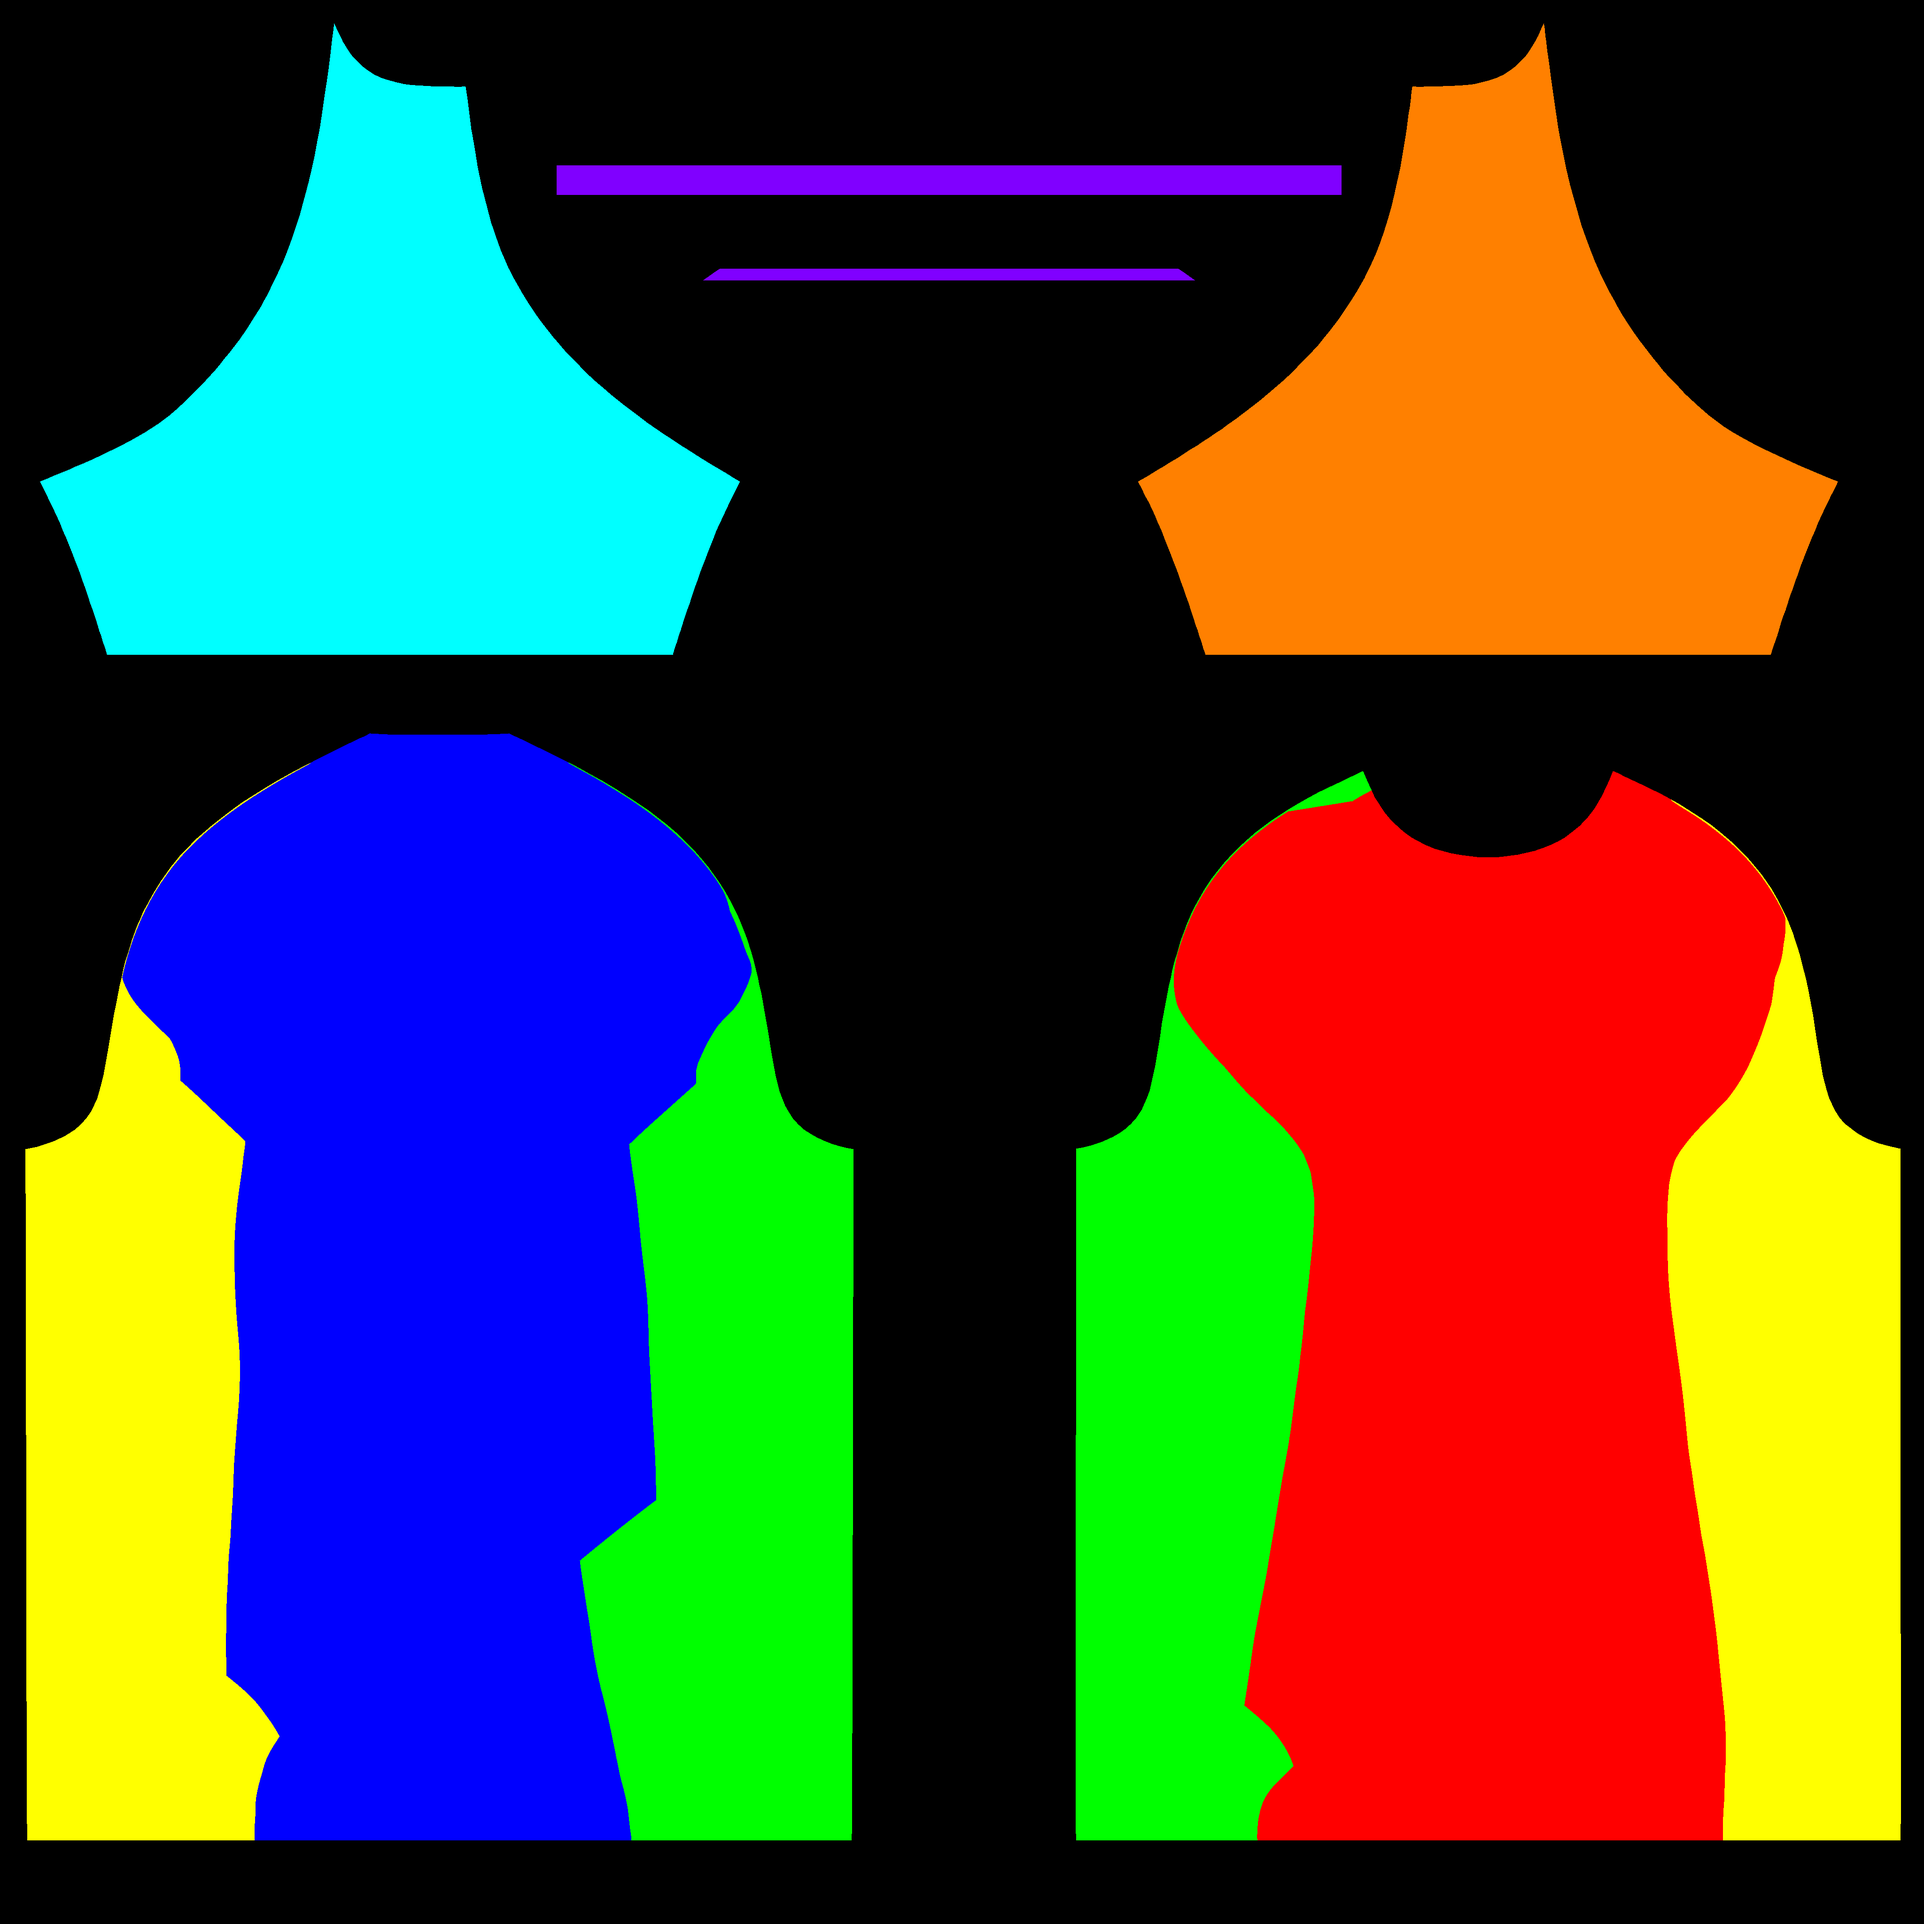
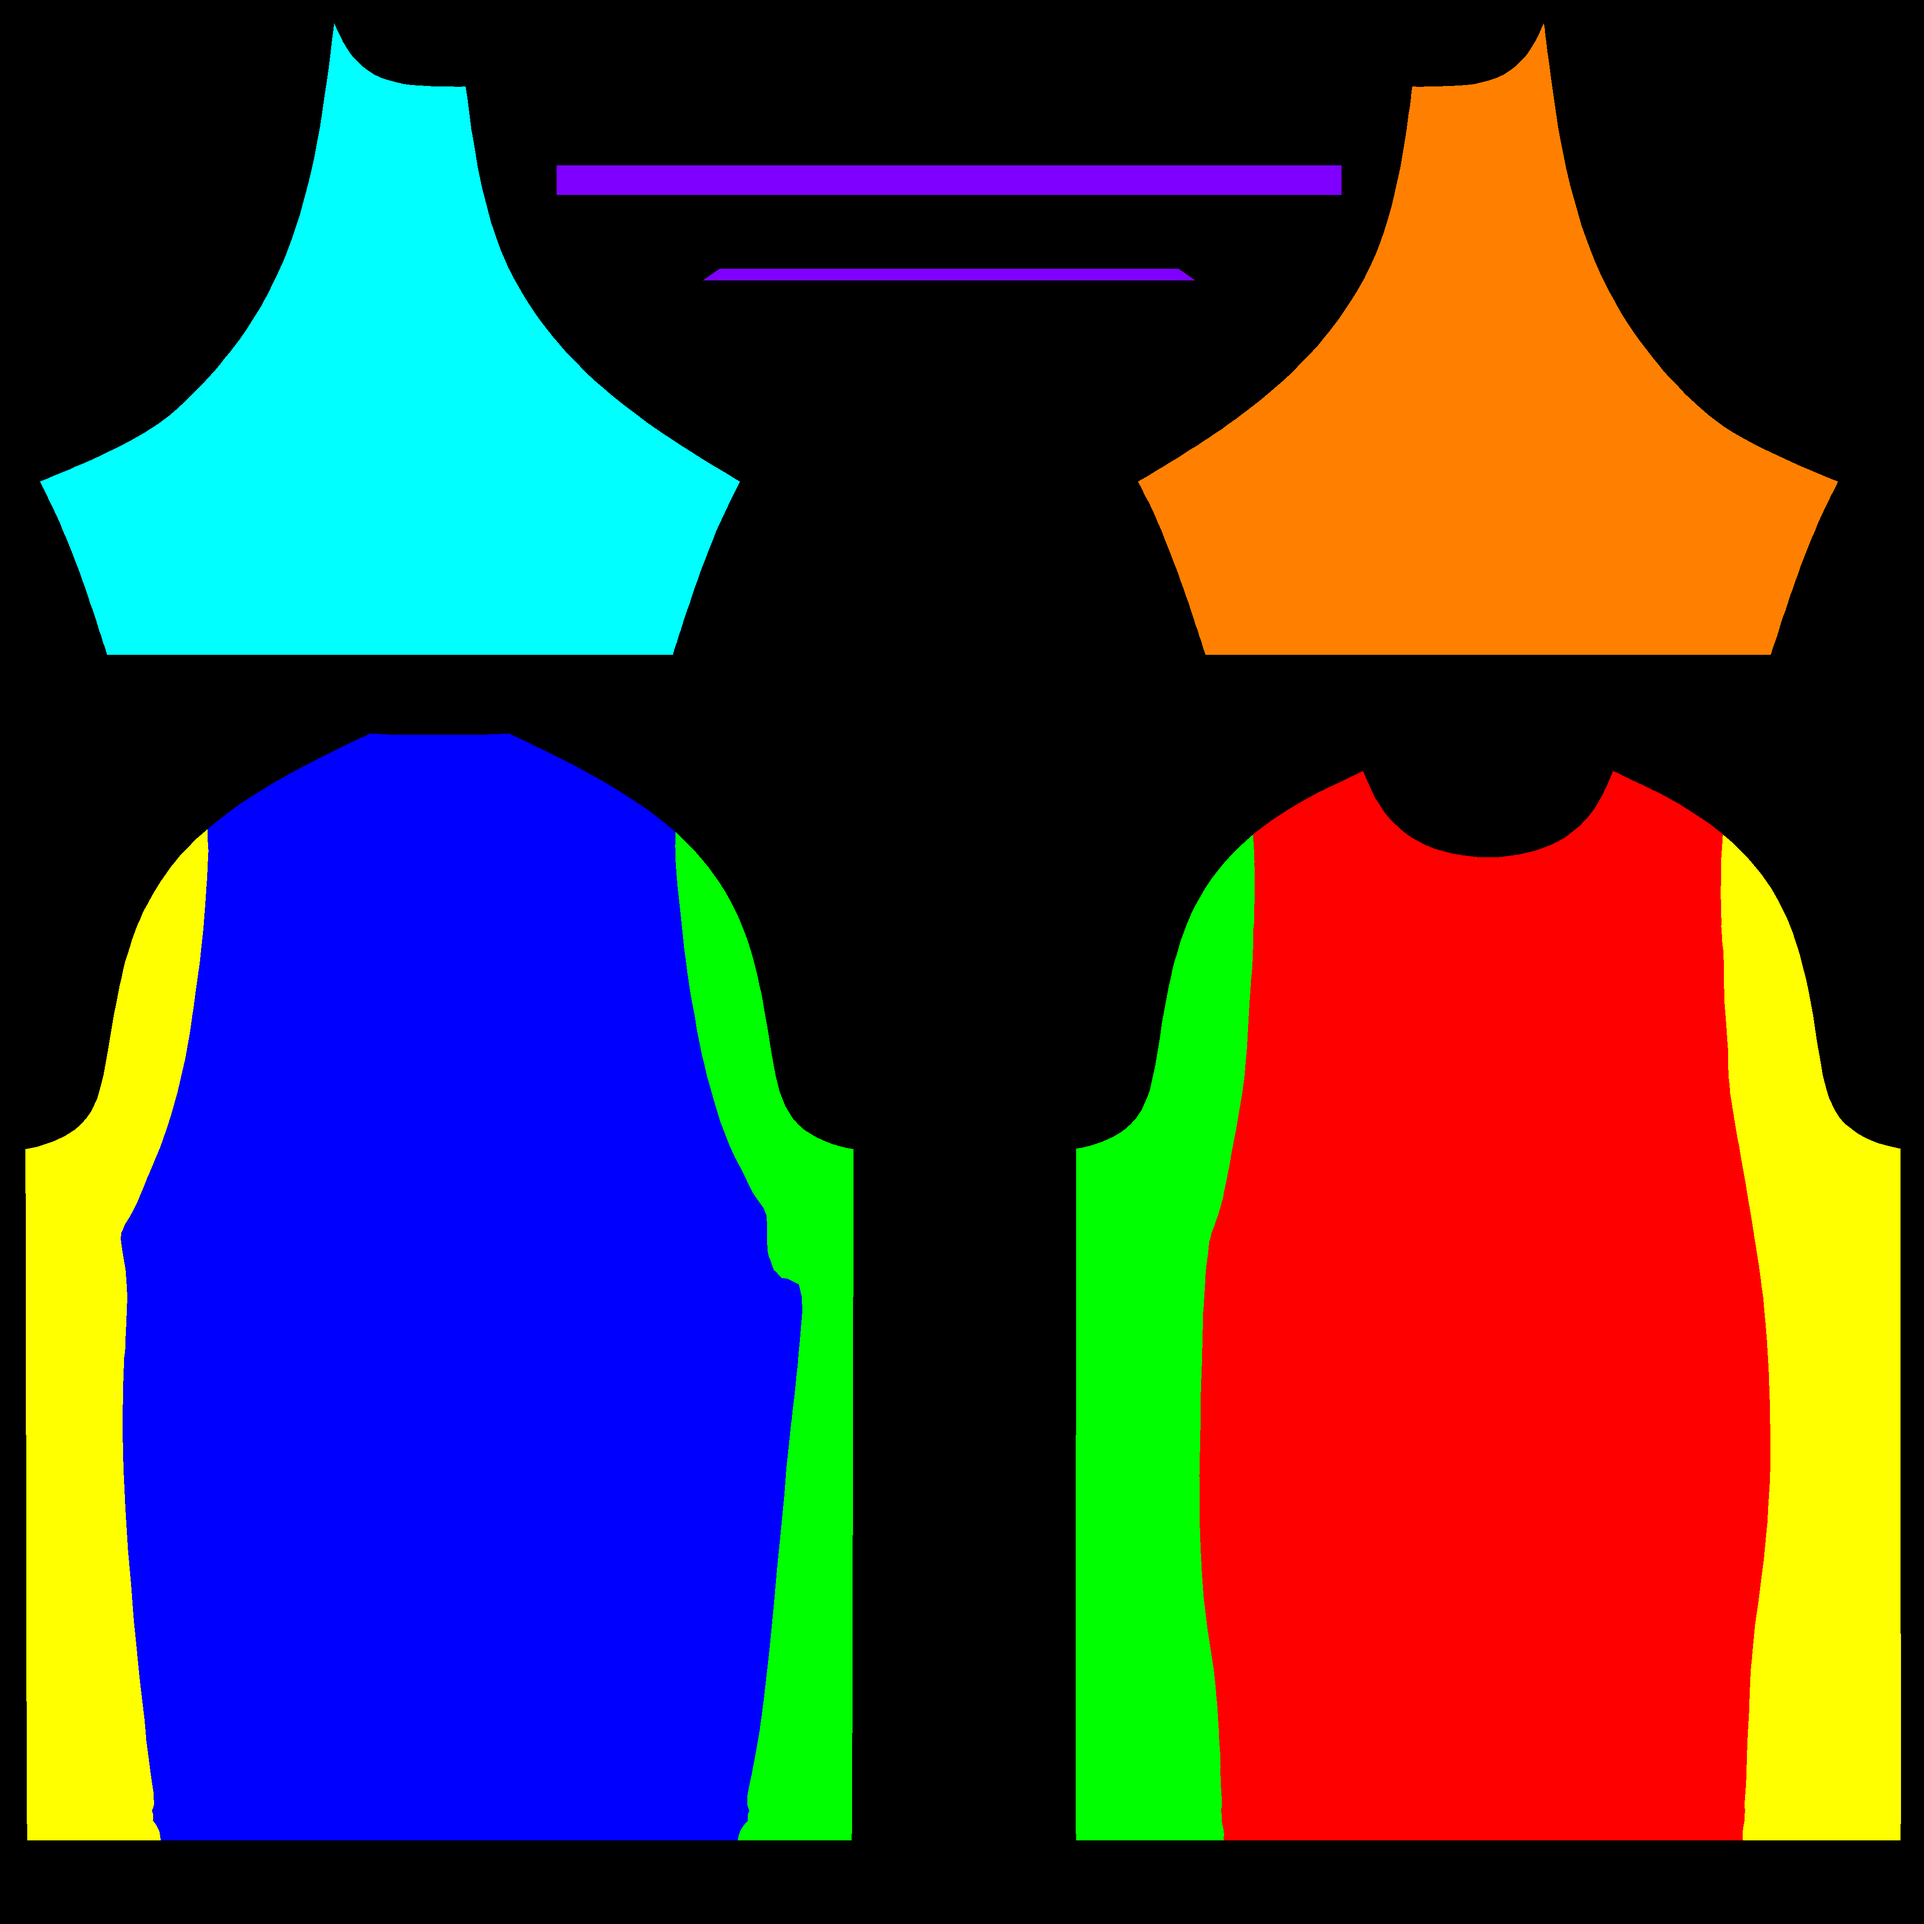
Refine straight shirt side zones

diff --git a/lib/model-manifest.ts b/lib/model-manifest.ts
@@ -75,7 +75,7 @@ export const MODEL_MANIFEST: ModelManifest = {
     author: 'BINARYCLOTH (@binaryclothofficial)',
     license: 'CC BY 4.0',
     sourceUrl: 'https://sketchfab.com/3d-models/men-regular-apparel-fit-sporty-t-shirt-4d055bb8c1e04549a4b2dac7b27ebb2c',
-    modifications: ['Original graphics and texture channels removed', 'BaseColor replaced with a dynamic 1K/2K atlas', 'Meshopt compression', 'Runtime scaling and a smoothed 4K UV zone mask derived from interpolated mesh normals'],
+    modifications: ['Original graphics and texture channels removed', 'BaseColor replaced with a dynamic 1K/2K atlas', 'Meshopt compression', 'Runtime scaling and a 4K UV zone mask with straight model-space side boundaries'],
   },
   meshes: {
     front: ['default'],
@@ -93,7 +93,7 @@ export const MODEL_MANIFEST: ModelManifest = {
     mask: {
       url: '/models/uv-zone-mask.png',
       sourceSize: 4096,
-      torsoSideExpansion: 0.12,
+      torsoSideExpansion: 0,
       colors: {
         front: [[255, 0, 0]],
         back: [[0, 0, 255]],

diff --git a/lib/uv-zone-mask.ts b/lib/uv-zone-mask.ts
@@ -63,6 +63,7 @@ export function padUvZoneMask(mask: UvZoneMaskLookup, padding: number): UvZoneMa
 
 export function expandTorsoSideZones(mask: UvZoneMaskLookup, ratio: number): UvZoneMaskLookup {
   const zones = mask.zones.slice();
+  if (ratio <= 0) return { ...mask, zones };
   const torsoIslands = [
     { rect: MODEL_MANIFEST.atlas.zones.back.rect, primary: 'back', left: 'sideLeft', right: 'sideRight' },
     { rect: MODEL_MANIFEST.atlas.zones.front.rect, primary: 'front', left: 'sideRight', right: 'sideLeft' },

diff --git a/tests/model-manifest.test.ts b/tests/model-manifest.test.ts
@@ -17,6 +17,7 @@ describe('ModelManifest', () => {
   });
 
   it('mantiene todas las regiones de la máscara dentro del atlas', () => {
+    expect(MODEL_MANIFEST.atlas.mask.torsoSideExpansion).toBe(0);
     for (const zone of ZONE_IDS) {
       expect(MODEL_MANIFEST.atlas.mask.colors[zone].length).toBeGreaterThan(0);
       expect(MODEL_MANIFEST.atlas.mask.rects[zone].length).toBeGreaterThan(0);
